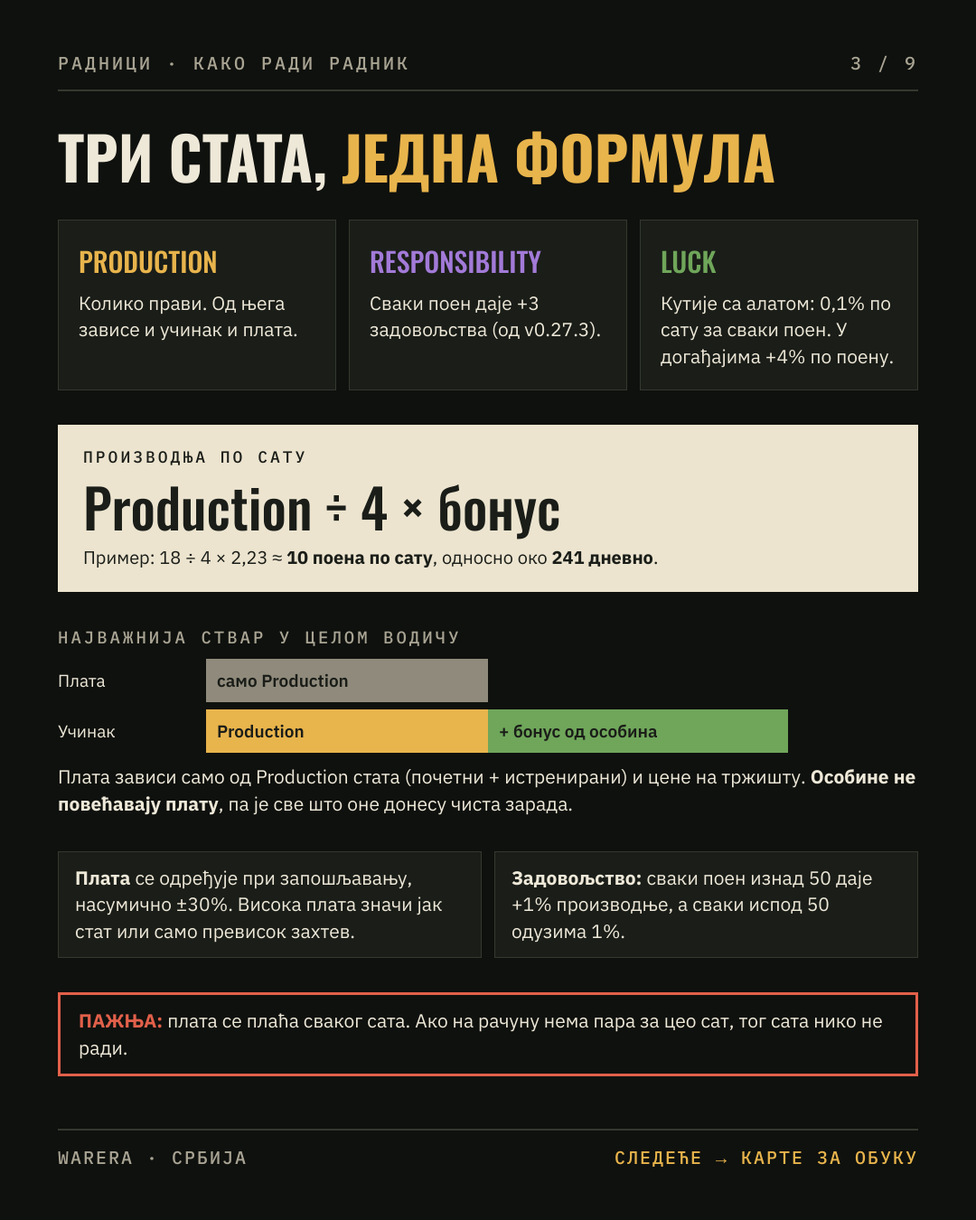
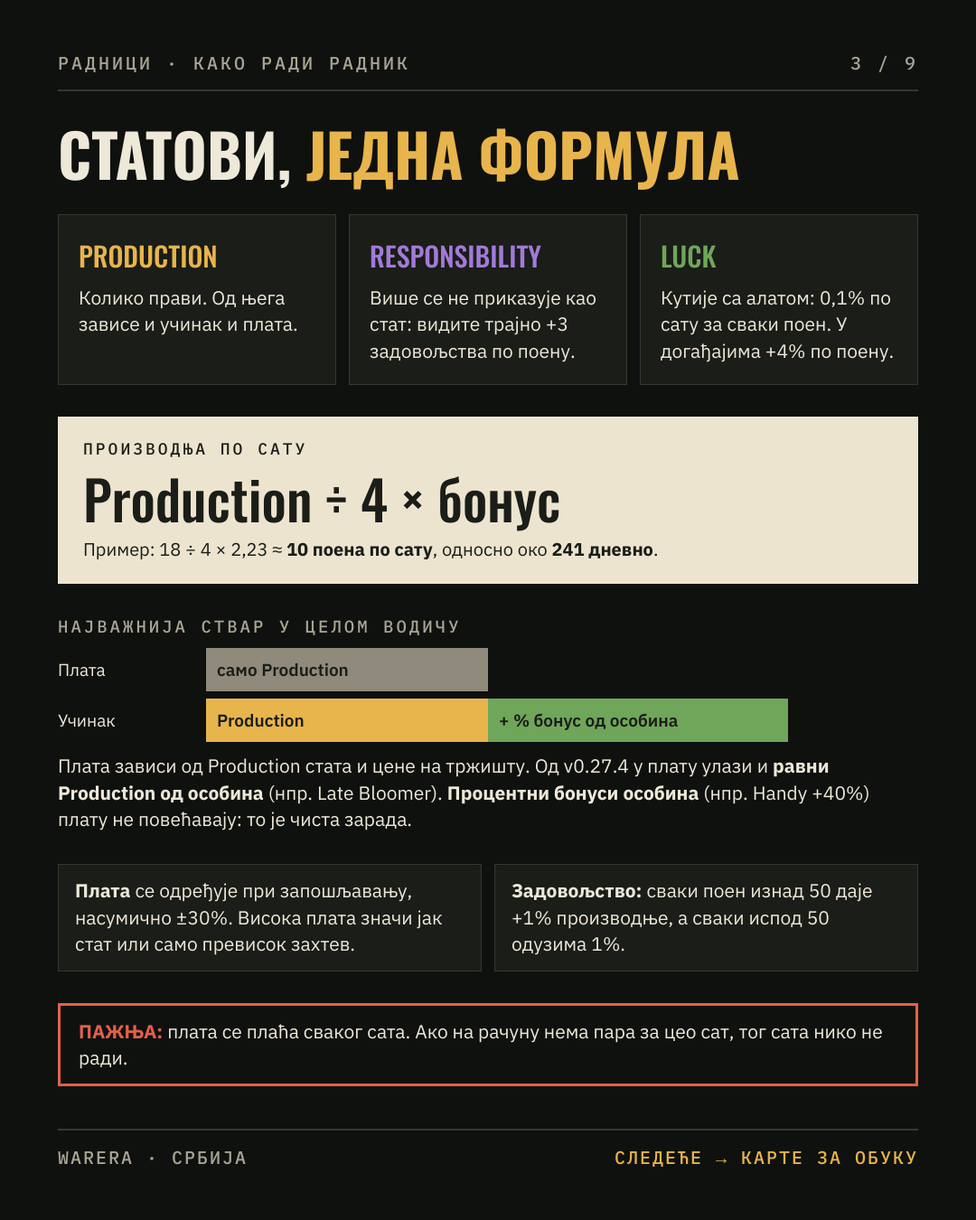
Zakrpa v0.27.4: starenje po radnom danu, Wild card Rare +2, Reroll, Talks to Machines, plata i osobine
Claude-Session: https://claude.ai/code/session_01L1BRfphHGAoYFinPfNgA1E

diff --git a/clanci/radnici-v027.md b/clanci/radnici-v027.md
@@ -2,7 +2,7 @@
 
 *Прилагођени превод водича „Piraterers Employee Training Guide 2.0” играча **Piraterer**. Аутор је дозволио превод, а оригинал ажурира ако се нешто промени, па га погледајте и тамо:* [**оригинални чланак →**](https://app.warera.io/article/6ade935e2284d0115d0de773)
 
-> **Ажурирано за закрпе v0.27.1, v0.27.2 и v0.27.3.** Ово је лично мишљење аутора, засновано на тест-серверу и белешкама за закрпу. Нека вам послужи као полазна тачка, а свој стил игре наћи ћете сами.
+> **Ажурирано за закрпе v0.27.1 до v0.27.4.** Ово је лично мишљење аутора, засновано на тест-серверу и белешкама за закрпу. Нека вам послужи као полазна тачка, а свој стил игре наћи ћете сами.
 
 ---
 
@@ -11,7 +11,7 @@
 • Запошљавајте **младе раднике са високим потенцијалом** или добрим особинама  
 • На почетку улажите у **Енергију**, па у **Менаџмент** (од v0.27.3 у њему је и бивше Лидерство)  
 • Плата се плаћа **сваког сата**: ако на рачуну нема пара за цео сат, тог сата нико не ради  
-• Плату плаћате само за Production стат (почетни + истренирани), **не за бонусе од особина**. Зато су особине које дају производњу најисплативије  
+• Плату плаћате за Production стат (од v0.27.4 рачуна се и равни Production од особина), **али не за процентне бонусе особина**. Зато су особине типа +40% најисплативије  
 • При обуци бирајте: **добра особина > Production > Second wind > смањење плате / Luck > Responsibility**  
 • Радници у **матичном региону Србије** добијају +5% производње
 
@@ -41,7 +41,7 @@
 • сваки стат (Production, Responsibility, Luck) од 1 до 4, сви подједнако вероватни  
 • увек тачно једна особина (од v0.27.3)  
 • потенцијал за обуку од 3 до 10: толико пута радника можете да обучите  
-• године од 18 до 45. Радник стари **годину дана сваког дана** и одлази у пензију са 65
+• године од 18 до 45. Радник стари **годину дана за сваки дан кад ради или тренира** (од v0.27.4; у паузираној компанији не стари и не тренира) и одлази у пензију са 65
 
 **Важно (v0.27.3):** кандидат показује све статове и плату, а **особину и потенцијал видите тек кад га запослите**. Особине типа Specialist сада увек одговарају производу ваше компаније.
 
@@ -80,14 +80,17 @@
 
 **Uncommon**  
 • *Intensive drill:* +2 на један стат  
-• *Wild card:* насумична особина, добра или лоша, види се тек кад је изаберете, плус +1 на насумичан стат. Карта показује шансу за лошу особину  
+• *Reroll:* бесплатно мења руку за нове три карте (ново у v0.27.4)  
 • *Negotiation:* −10% очекиване плате
 
 **Rare**  
 • *Rehab:* брише једну лошу особину (нпр. Xenophobe или Burnout). Од v0.27.3 увек Rare и брише само лоше  
 • *New habit:* учи једну мешовиту особину, корисну али са манама  
 • *Second wind:* +2 потенцијала, једна обука више од оне коју сте управо потрошили  
-• *Negotiation:* −20% очекиване плате
+• *Negotiation:* −20% очекиване плате  
+• *Wild card:* насумична особина, добра или лоша, види се тек кад је изаберете, плус **+2** на насумичан стат. Карта показује шансу за лошу особину. Од v0.27.4 је Rare (раније Uncommon, +1)
+
+*v0.27.4: „дефинисане” особине се више не нуде као Rare карте, па ауторов списак горе можда не одговара у потпуности. Карте сада показују и колико дневног профита додају.*
 
 **Epic**  
 • *Intensive drill:* +3 на један стат  
@@ -104,7 +107,7 @@
 
 ## Како радници раде
 
-Радник има три стата: **Production** (производња), **Responsibility** (одговорност) и **Luck** (срећа).
+Радник има статове **Production** (производња), **Responsibility** (одговорност) и **Luck** (срећа). Од v0.27.4 Responsibility се више не приказује као стат: уместо њега видите трајно задовољство које даје (+3 по поену).
 
 **Производња по сату = Production ÷ 4 × бонус производње**
 
@@ -112,7 +115,7 @@
 
 **Плата** се исплаћује сваког сата. Ако на рачуну нема довољно за цео сат, тог сата нико не ради, па пре изласка из игре проверите да имате новца бар до следећег уласка.
 
-Висина плате се одређује при запошљавању, насумично ±30%. Зависи само од **Production стата (почетни + истренирани)** и тржишне цене поена производње. **Особине не повећавају плату.**
+Висина плате се одређује при запошљавању, насумично ±30%. Зависи од **Production стата (почетни + истренирани)** и тржишне цене поена производње. Од v0.27.4 у плату улази и **равни Production који даје особина** (нпр. Late Bloomer, Cosmopolitan, Specialist). **Процентни бонуси особина (нпр. Handy +40%) не повећавају плату.**
 
 *Зато је ово најважнија ствар у чланку:* радник чија особина даје +40% производње производи много више, а плату тражи као и сви остали. Ауторов радник са добрим особинама на тест-серверу је зарађивао колико цела компанија са мотором нивоа 6.
 
@@ -151,11 +154,12 @@
 
 • **Handy:** са било којим алатом +40% производње; без алата ништа. Алате доносе кутије, а кутије Luck  
 • **Cosmopolitan:** +2 Production за сваку страну националност међу запосленима, до +4  
-• **Late Bloomer:** +2 Production на сваких 10 година преко 40  
+• **Late Bloomer:** +2 Production на сваких 10 година преко 40 (од v0.27.4 подиже и плату)  
 • **Craftsman:** прерађена роба и оружје +3 Production; сировине −1  
 • **Laborer:** сировине +3 Production; прерађена роба −1  
 • **Sociable:** +25% по колеги (највише +50%); незадовољан кад ради сам  
 • **Specialist:** у компанији која прави његов производ +3 Production и +5 задовољства  
+• **Talks to Machines** (ново у v0.27.4, наш додатак): дуплира производњу Automated Engine-а док је једини радник у компанији
 • **Lucky Charm:** сваки колега добија +3 Luck  
 • **Recruiter:** +1 кандидат дневно у свакој вашој компанији (сабира се)
 
@@ -180,11 +184,11 @@
 • **Loner:** једини запослени у компанији +100%; чим дође колега, ништа  
 • **Quick Study:** сваки дан рада се рачуна дупло за специјализацију  
 • **Veteran:** после 30 дана у истој компанији +20%; премештај ресетује бројач  
-• **Statist:** са порезом на плате од 20% и више, +2 Responsibility  
+• **Statist:** са порезом на плате од 20% и више, +2 Responsibility (+6 задовољства)  
 • **Loyal:** губици задовољства га погађају упола мање  
 • **Scavenger:** дупла шанса за кутију са алатом, −25% производње  
-• **Foreman:** сваки колега +3 Responsibility, он сам ништа  
-• **Bully:** са колегама сам добија +2, а свима другима −10 задовољства
+• **Foreman:** сваки колега +3 Responsibility (+9 задовољства), он сам ништа  
+• **Bully:** са колегама сам добија +2, а свима другима −10 задовољства. **Од v0.27.4 игра га води као лошу особину**, па га Rehab може обрисати
 
 ### Само из догађаја
 
@@ -229,7 +233,10 @@
 • Процена профита сада рачуна вредност производа који компанија прави  
 • Нови радници више не добијају особине које се косе (нпр. Loyal + Flight risk, Loner + Mentor)  
 • Прозор за запошљавање одбројава до нових кандидата (00:00 UTC), а на мапи видите колико радника ради у сваком региону  
-• Особина Homesick више не смета у окупираним регионима ваше земље
+• Особина Homesick више не смета у окупираним регионима ваше земље  
+• **Догађаји (v0.27.4):** плаћени одговори су много јефтинији (неки и испод пола раније цене), а награде боље. Сада се чешће исплати платити него бирати бесплатан одговор  
+• Ако радника преместите у компанију којој његов алат не одговара, алат се враћа у ваш инвентар  
+• Опрема за алат се отвара у истом прозору као опрема и показује Production радника који га већ држе
 • Прозор радне снаге показује доступне обуке и догађаје
 
 ![Прозор радне снаге](https://media.warera.io/article-images/fae8850c-39c0-4afa-8547-1b232fed5b62-1792968448808.png)

diff --git a/03-deo-2-2-eko-bild-i-kompanije.md b/03-deo-2-2-eko-bild-i-kompanije.md
@@ -145,8 +145,8 @@
 | --- | --- |
 | Производња (Production) | 1–4 на почетку (колико производи) |
 | Срећа (Luck) | 1–4 на почетку (кутије са алатом; од v0.27.3 сваки поен даје +4% у догађајима, негде +2%) |
-| Одговорност (Responsibility) | 1–4 на почетку (од v0.27.3: +3 задовољства по поену) |
-| Особине (Traits) | Увек тачно 1 особина на почетку (v0.27.3); особина и потенцијал се виде тек после запошљавања; Specialist особине одговарају производу компаније; нови радници више не добијају особине које се косе (v0.27.2, нпр. Loyal + Flight risk); укупно 53 особине (нпр. Усамљеник (Loner): +100% када ради сам; Друштвен (Sociable): +25% по колеги) |
+| Одговорност (Responsibility) | 1–4 на почетку (од v0.27.3: +3 задовољства по поену; од v0.27.4 приказује се само као то трајно задовољство, не као стат) |
+| Особине (Traits) | Увек тачно 1 особина на почетку (v0.27.3); особина и потенцијал се виде тек после запошљавања; Specialist особине одговарају производу компаније; нови радници више не добијају особине које се косе (v0.27.2, нпр. Loyal + Flight risk); нова особина **Talks to Machines** (v0.27.4): дуплира Automated Engine док је једини радник у компанији; **Bully** се сада води као лоша особина (v0.27.4); укупно 53+ особине (нпр. Усамљеник (Loner): +100% када ради сам; Друштвен (Sociable): +25% по колеги) |
 | Потенцијал за обуку (Training Potential) | 3–10 (колико извлачења за обуку може да прими) |
 | Почетна старост | 18–45 |
 
@@ -154,10 +154,11 @@
 
 **Старење и пензионисање:**
 
-- Запослени старе **1 годину дневно**.
+- Запослени старе **1 годину за сваки дан кад раде или тренирају** (v0.27.4; раније по календарском дану).
+- **[v0.27.4] Паузиране компаније** стављају раднике на чекање: не старе и не могу да се обучавају (иконица паузе код онога ко данас није радио ни тренирао). Премештање у паузирану компанију прво вас упозори.
 - Са 65 траже пензију, па поново на сваких 10 дана ако их задржите. Свака година преко 65 отежава задржавање за 5%.
 
-**Управљање:** запослене можете премештати између својих компанија; са премијумом их можете и преименовати.
+**Управљање:** запослене можете премештати између својих компанија; са премијумом их можете и преименовати. **[v0.27.4]** Ако радника преместите у компанију којој његов алат не одговара, алат се враћа у ваш инвентар. Опремање алатом отвара исти прозор као опрема и показује Production радника који га већ држе.
 
 **Отпуштање:** од v0.27.3 отказ више не кошта колеге задовољства. Новог радника можете отпустити тек 12 сати после запошљавања. Кандидати пре запошљавања показују све статове и плату. Прозор за запошљавање одбројава до дневног освежавања у 00:00 UTC, мапа има филтер за раднике, а карте за обуку показују вредност пре → после (v0.27.2). Homesick радници су у реду у окупираним регијама своје земље (v0.27.1).
 
@@ -194,7 +195,7 @@
 - **једно извлачење дневно по запосленом**, за 10 енергије;
 - свако извлачење троши 1 поен Потенцијала за обуку запосленог;
 - **бирате 1 од 3 карте**: појачање статистике, нижа плата, нова или уклоњена особина, или више Потенцијала;
-- Менаџмент и Срећа повећавају вероватноћу ретких карата. Карте показују промену плате, а Wild card шансу за лошу особину (v0.27.3). Rehab брише само лоше особине и увек је Rare.
+- Менаџмент и Срећа повећавају вероватноћу ретких карата. Карте показују промену плате, а Wild card шансу за лошу особину (v0.27.3). Rehab брише само лоше особине и увек је Rare. **[v0.27.4]** Нова Uncommon карта **Reroll** бесплатно мења руку; **Wild card** је сада Rare и даје +2 на стат (раније +1); дефинисане особине се више не нуде као Rare карте; карте показују колико дневног профита додају.
 
 **Препоручена стратегија:** запослени са високим Потенцијалом вреди више од оног са високим почетним статистикама, јер је свако извлачење трајно побољшање. Карта „више Потенцијала" продужава корисни век запосленог.
 
@@ -206,6 +207,7 @@
 - Око 1 дневно са 3 запослена, никада више од 3 дневно.
 - Шансе видите пре избора; Менаџмент, задовољство и Срећа их побољшавају. Догађај погађа алат и колеге који су били ту кад се појавио.
 - **Игноришите догађај 36 сати** и подразумевана опција се бира уместо вас.
+- **[v0.27.4]** Плаћени одговори у догађајима се сада чешће исплате: 23 плаћена одговора су јефтинија (многи испод пола), а награде боље.
 - Од v0.27.1 догађаји могу да крену одмах после запошљавања (раније после 48 сати). Највише један догађај сваки дневно, и само док се пријављујете бар на сваких 3 дана.
 - Исходи укључују задовољство, бонусе, статистике, особине, кутије са алатом или одлазак запосленог.
 

diff --git a/04-deo-2-3-proizvodnja-trgovina-prestiz.md b/04-deo-2-3-proizvodnja-trgovina-prestiz.md
@@ -84,7 +84,7 @@
 
 - Основа/PP = (продајна цена − цена сировина за једну јединицу) / PP потребни по рецепту
 
-**Практично правило:** запослени је исплатив када његова вредност по сату премашује његову плату. Обука може неисплативог запосленог учинити исплативим (појачање статистике подиже учинак, карта „нижа плата" смањује трошак). \[ПРОВЕРИТИ: како се одређују почетне плате\]
+**Практично правило:** запослени је исплатив када његова вредност по сату премашује његову плату. Обука може неисплативог запосленог учинити исплативим (појачање статистике подиже учинак, карта „нижа плата" смањује трошак). Плата се одређује при запошљавању (±30%) по Production стату; од v0.27.4 у то улази и равни Production од особина (нпр. Late Bloomer), али процентни бонуси особина плату и даље не повећавају.
 
 ### 2.12 Управљање запосленима \[v0.27\]
 
@@ -149,6 +149,8 @@
 Кутије се отварају на ролни која се зауставља на добијеном предмету; отварање више кутија одједном врти више ролни истовремено. **\[v0.27\]** Премијум играчи могу отворити до 50 кутија одједном (било 10), а збирови отвореног се више не рачунају двапут. Дрвене кутије су посебан тип: дају ресурсе, не опрему. Детаљи у 3.1.4.
 
 #### 2.14.2 Расклапање, скрап и израда
+
+**\[v0.27.4\]** Израда се откључава на нивоу 7 (раније 10). Филтери за расклапање могу да изаберу више типова и реткости одједном.
 
 Опрема се расклапа у скрап, а скрап + челик се користе за израду. Количина скрапа потребна за израду једнака је оној коју добијате расклапањем готовог предмета, тако да је стварни трошак израде челик. Израда одређеног предмета кошта двоструко више челика од насумичне израде.
 
